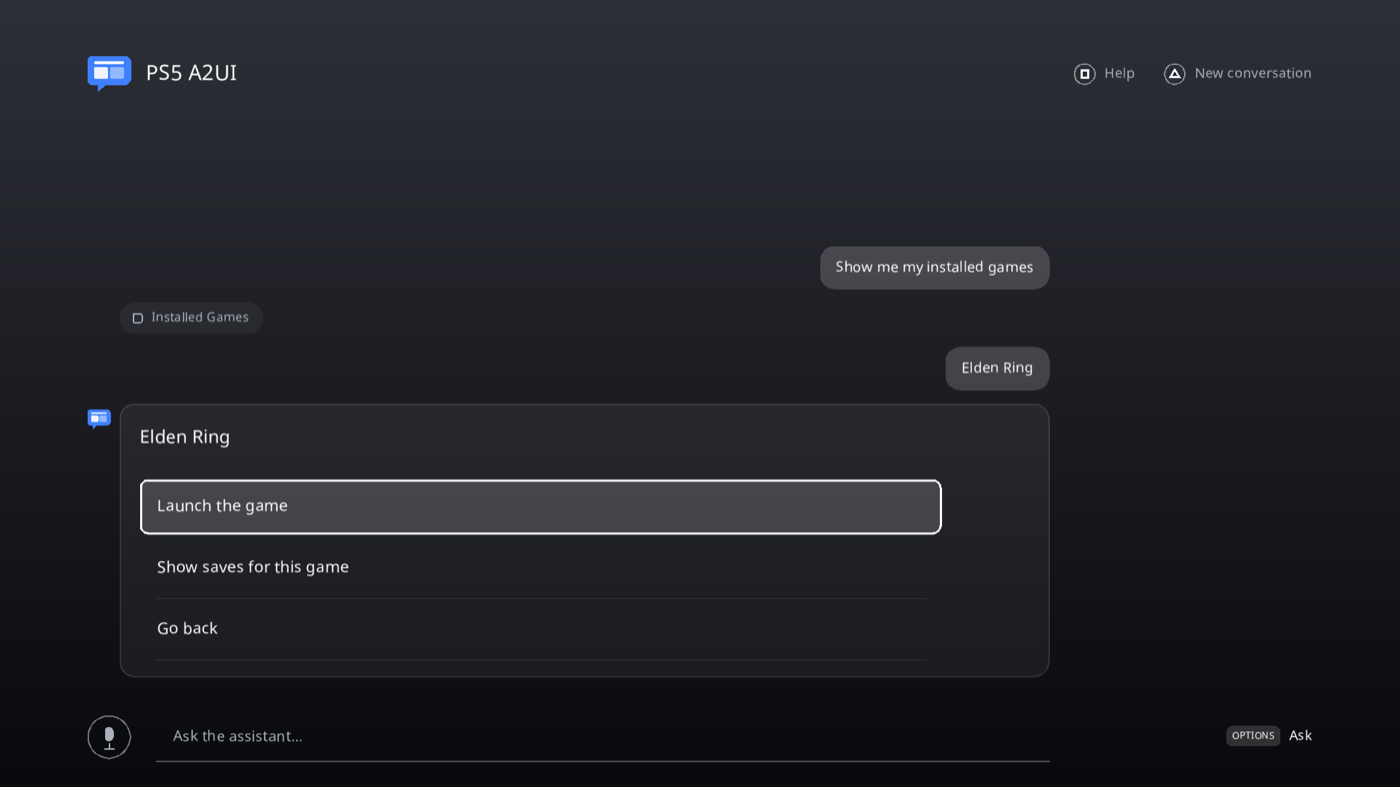
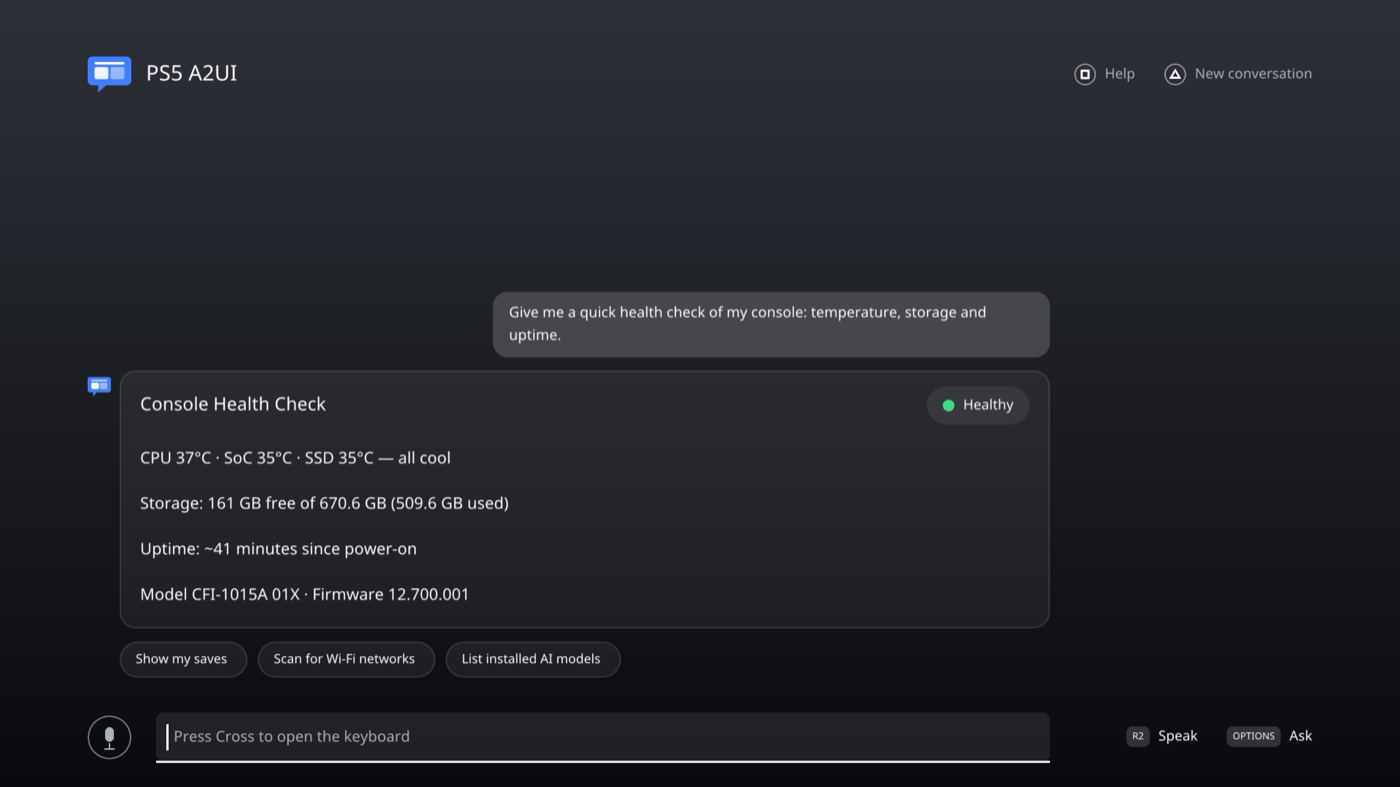
README: new console screenshots, start screen as the hero image

diff --git a/README.md b/README.md
@@ -5,7 +5,7 @@
 
 Open-source tooling for **agentic UI on a PlayStation 5**, built on [AG-UI](https://docs.ag-ui.com), [A2UI 1.0](https://a2ui.org) and [CopilotKit](https://docs.copilotkit.ai). An agent answers with native, controller-driven screens instead of text: menus, shelves of tiles, dashboards, the system keyboard, system dialogs, haptics.
 
-![The demo app in a conversation: the agent listed the installed games as a shelf, the player picked one, and the agent answered with a menu](docs/images/conversation.png)
+![The demo app's start screen: suggested questions about the player's games, controller and console, above a text field with Cross for the keyboard and R2 to speak](docs/images/landing.png)
 
 You don't need a PS5 to try it. The renderer and the agent run on a Mac or Linux desktop, and the same code runs on the console.
 
